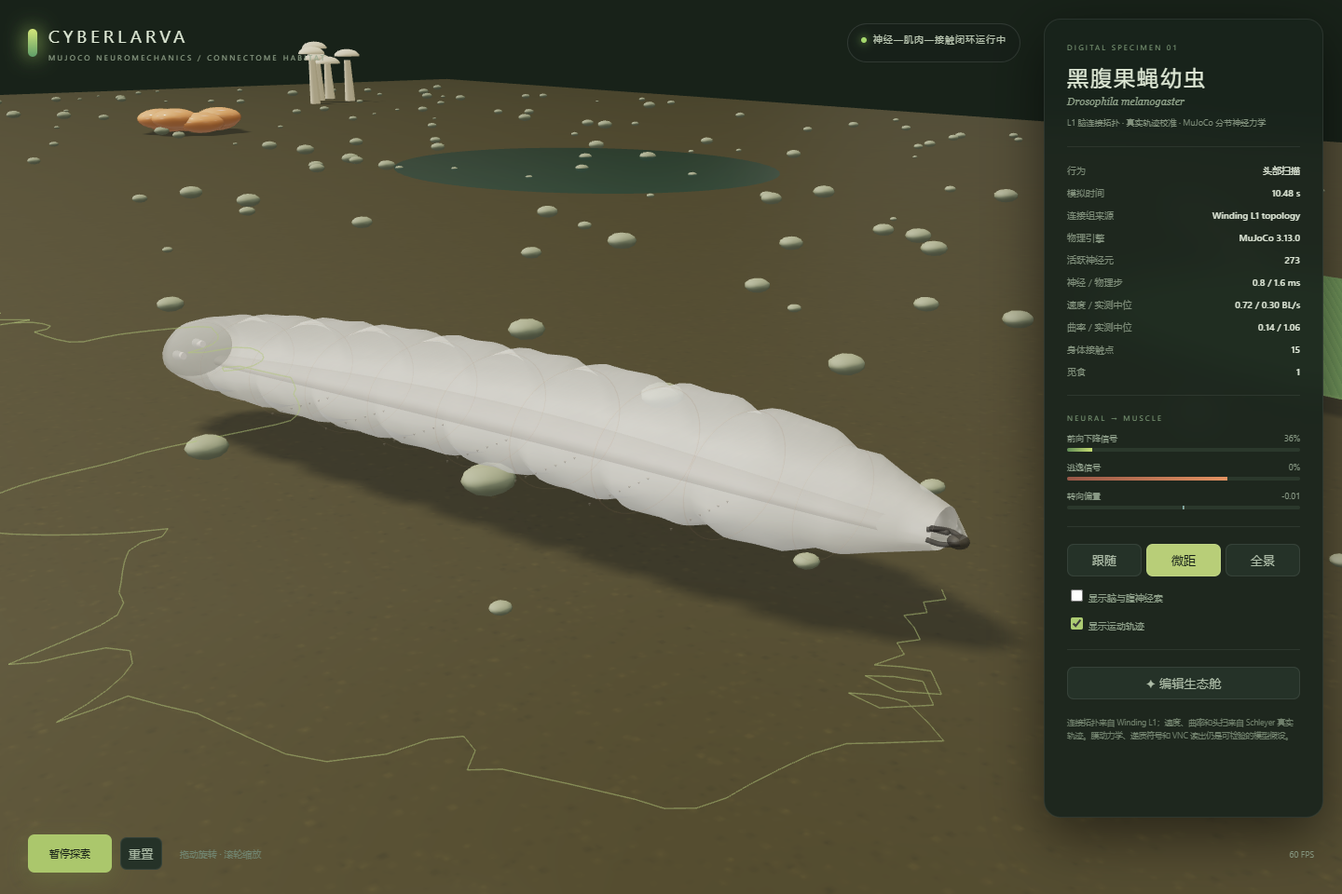
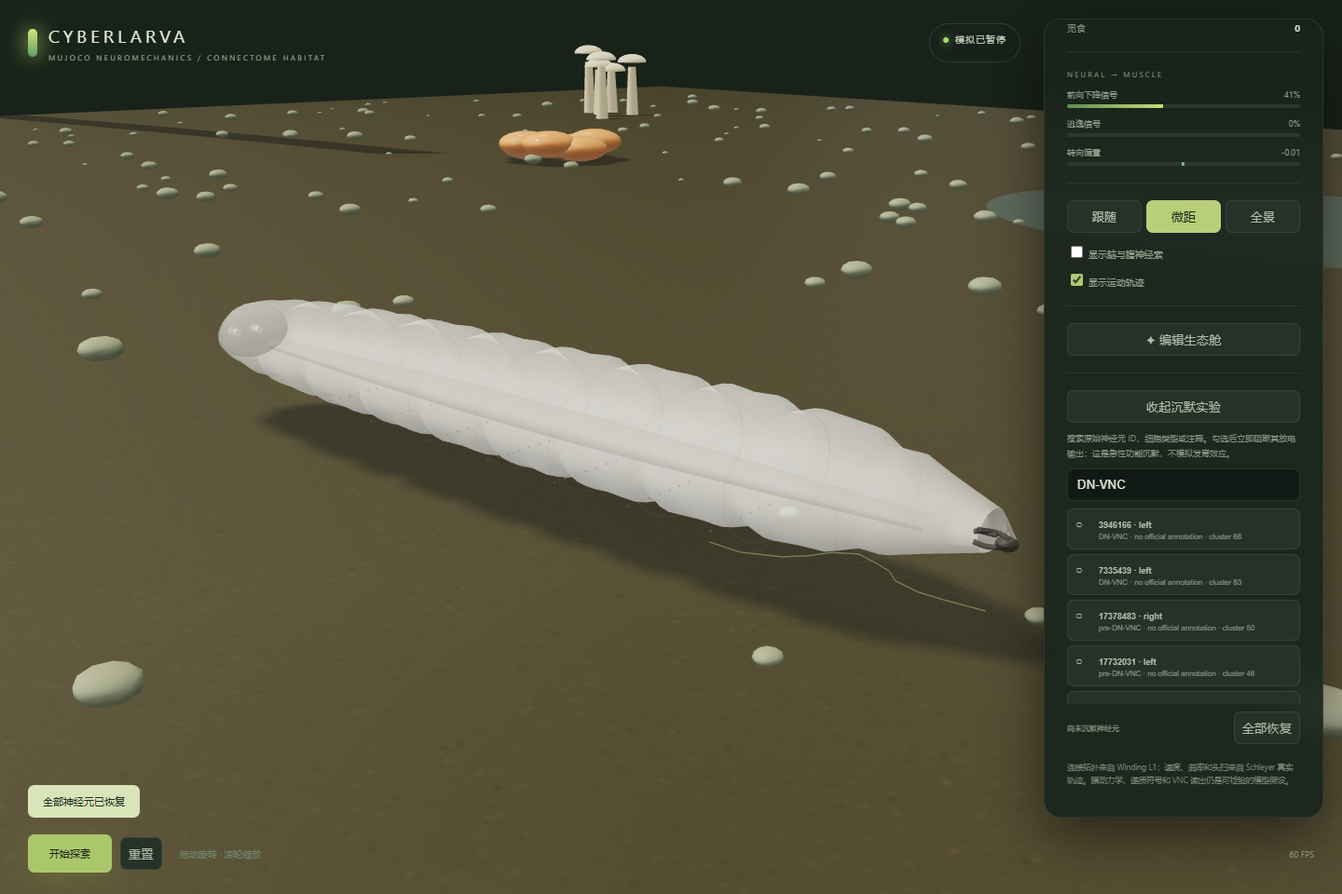
Add virtual neuron silencing experiments

diff --git a/web/main.js b/web/main.js
@@ -44,7 +44,7 @@ const nerveNodes=[];for(let i=0;i<11;i++)nerveNodes.push(mesh(sphereGeo,mats.ner
 let latest,follow=true,editing=false,selected='food',pathLine;const pathMat=new T.LineBasicMaterial({color:'#a4c568',transparent:true,opacity:.5});
 async function cmd(d){let r=await fetch('/api/command',{method:'POST',headers:{'Content-Type':'application/json'},body:JSON.stringify(d)}),j=await r.json();if(!r.ok)throw Error(j.error);return j}function toast(t){$('toast').textContent=t;$('toast').style.opacity=1;clearTimeout(window.tt);window.tt=setTimeout(()=>$('toast').style.opacity=0,2800)}
 async function poll(){try{latest=await(await fetch('/api/state')).json();if(latest.revision!==lastRevision)buildWorld(await(await fetch('/api/world')).json());
- const names={'resting':'静止','forward crawling':'前向蠕动','backward escape':'后退逃逸','head casting':'头部扫描','feeding':'进食'},p=latest.physics||{},target=p.targets||{};$('behavior').textContent=names[latest.behavior]||latest.behavior;$('simtime').textContent=latest.time.toFixed(2)+' s';$('source').textContent=latest.stats.source||'正在初始化';$('engine').textContent=p.engine||'MuJoCo';$('active').textContent=(latest.stats.active??0).toLocaleString();$('stepms').textContent=latest.stats.step_ms?(latest.stats.step_ms.toFixed(1)+' / '+(latest.stats.physics_ms||0).toFixed(1)+' ms'):'—';$('speed').textContent=p.speed_bl_s!=null?p.speed_bl_s.toFixed(2)+' / '+target.speed_bl_s.toFixed(2)+' BL/s':'—';$('curvature').textContent=p.curvature_rad_bl!=null?p.curvature_rad_bl.toFixed(2)+' / '+target.curvature_rad_bl.toFixed(2):'—';$('contacts').textContent=p.contact_count??'—';$('food').textContent=latest.foods_found;$('status').textContent=latest.error?latest.error:(latest.paused?'模拟已暂停':'神经—肌肉—接触闭环运行中');$('play').textContent=latest.paused?'开始探索':'暂停探索';
+ const names={'resting':'静止','forward crawling':'前向蠕动','backward escape':'后退逃逸','head casting':'头部扫描','feeding':'进食'},p=latest.physics||{},target=p.targets||{};$('behavior').textContent=names[latest.behavior]||latest.behavior;$('simtime').textContent=latest.time.toFixed(2)+' s';$('source').textContent=latest.stats.source||'正在初始化';$('engine').textContent=p.engine||'MuJoCo';$('active').textContent=(latest.stats.active??0).toLocaleString();$('knockout').textContent=(latest.knockout?.count||0)+' 个';$('stepms').textContent=latest.stats.step_ms?(latest.stats.step_ms.toFixed(1)+' / '+(latest.stats.physics_ms||0).toFixed(1)+' ms'):'—';$('speed').textContent=p.speed_bl_s!=null?p.speed_bl_s.toFixed(2)+' / '+target.speed_bl_s.toFixed(2)+' BL/s':'—';$('curvature').textContent=p.curvature_rad_bl!=null?p.curvature_rad_bl.toFixed(2)+' / '+target.curvature_rad_bl.toFixed(2):'—';$('contacts').textContent=p.contact_count??'—';$('food').textContent=latest.foods_found;$('status').textContent=latest.error?latest.error:(latest.paused?'模拟已暂停':'神经—肌肉—接触闭环运行中');$('play').textContent=latest.paused?'开始探索':'暂停探索';
  for(let [k,id] of [['forward','forward'],['backward','back']]){let v=latest.stats[k]||0;$(id+'bar').style.width=v*100+'%';$(id+'v').textContent=Math.round(v*100)+'%'}let tv=latest.stats.turn||0;$('turnv').textContent=(tv>=0?'+':'')+tv.toFixed(2);$('turnbar').style.left=(tv<0?50+tv*50:50)+'%';$('turnbar').style.width=Math.abs(tv)*50+'%';$('turnbar').style.background=tv<0?'#7bb1b0':'#d0d87b';
  if(pathLine){scene.remove(pathLine);pathLine.geometry.dispose()}pathLine=new T.Line(new T.BufferGeometry().setFromPoints(latest.trail.map(p=>new T.Vector3(p[0],.025,p[1]))),pathMat);pathLine.visible=$('trail').checked;scene.add(pathLine);
  }catch(e){$('status').textContent='本地服务连接中断'}setTimeout(poll,100)}
@@ -52,6 +52,7 @@ buildWorld(await(await fetch('/api/world')).json());latest=await(await fetch('/a
 function view(v){let target=v==='overview'?segMeshes[0].position.clone():segMeshes[v==='macro'?3:4].position.clone(),off=v==='macro'?new T.Vector3(1.6,.7,1.35):v==='overview'?new T.Vector3(12,18,12):new T.Vector3(2.25,1.25,2.05);controls.target.copy(target);camera.position.copy(target).add(off);follow=v!=='overview';for(let k of ['follow','macro','overview'])$(k).classList.toggle('selected',k===v)}for(let k of ['follow','macro','overview'])$(k).onclick=()=>view(k);
 $('play').onclick=()=>cmd({action:'pause',value:!latest.paused});$('reset').onclick=()=>cmd({action:'reset'});$('neural').onchange=()=>neuralGroup.visible=$('neural').checked;$('trail').onchange=()=>{if(pathLine)pathLine.visible=$('trail').checked};
 const tools=[['food','食物'],['leaf','叶片'],['rock','岩石'],['fungus','菌簇'],['puddle','水洼'],['wall','障碍'],['floor','清墙'],['spawn','出生点']];for(let [k,n] of tools){let b=document.createElement('button');b.textContent=n;b.classList.toggle('selected',k===selected);b.onclick=()=>{selected=k;[...$('palette').children].forEach(x=>x.classList.toggle('selected',x===b))};$('palette').appendChild(b)}$('editor').onclick=async()=>{editing=!editing;$('editpanel').hidden=!editing;$('editor').textContent=editing?'完成编辑':'✦ 编辑生态舱';if(editing){await cmd({action:'pause',value:true});view('overview');toast('单击放置，右键擦除')}};for(let a of ['save','load','garden'])$(a).onclick=()=>cmd({action:a}).then(()=>toast({save:'地图已保存',load:'地图已载入',garden:'自然生态舱已复原'}[a])).catch(e=>toast(e.message));
+let lesionOpen=false,neuronTimer;async function loadNeurons(){let q=encodeURIComponent($('neuronsearch').value.trim()),data=await(await fetch('/api/neurons?q='+q+'&limit=80')).json(),box=$('neuronresults');box.replaceChildren();for(let n of data.neurons){let b=document.createElement('button'),mark=document.createElement('span'),copy=document.createElement('span'),title=document.createElement('b'),meta=document.createElement('small');b.className='neuron'+(n.disabled?' selected':'');mark.textContent=n.disabled?'✓':'○';title.textContent=(n.id||n.index)+(n.side?' · '+n.side:'');meta.textContent=[n.celltype,n.annotations,n.cluster&&('cluster '+n.cluster)].filter(Boolean).join(' · ')||('connectome index '+n.index);copy.append(title,meta);b.append(mark,copy);b.onclick=async()=>{await cmd({action:'knockout',mode:n.disabled?'remove':'add',indices:[n.index]});await loadNeurons();toast(n.disabled?'神经元已恢复':'神经元已沉默')};box.appendChild(b)}$('kosummary').textContent=data.knockout.count?('已沉默 '+data.knockout.count+' 个神经元'):'尚未沉默神经元'}$('lesion').onclick=()=>{lesionOpen=!lesionOpen;$('lesionpanel').hidden=!lesionOpen;$('lesion').textContent=lesionOpen?'收起沉默实验':'◇ 神经元沉默实验';if(lesionOpen)loadNeurons()};$('neuronsearch').oninput=()=>{clearTimeout(neuronTimer);neuronTimer=setTimeout(loadNeurons,180)};$('clearKO').onclick=async()=>{await cmd({action:'clear_knockout'});await loadNeurons();toast('全部神经元已恢复')};
 const cursor=mesh(new T.RingGeometry(.35,.48,24),new T.MeshBasicMaterial({color:'#c7df79',side:T.DoubleSide}),scene);cursor.rotation.x=-Math.PI/2;cursor.visible=false;const ray=new T.Raycaster(),mouse=new T.Vector2(),ground=new T.Plane(new T.Vector3(0,1,0),0),hit=new T.Vector3();let cell,down;renderer.domElement.onpointermove=e=>{if(!editing)return;mouse.set(e.clientX/innerWidth*2-1,-e.clientY/innerHeight*2+1);ray.setFromCamera(mouse,camera);if(ray.ray.intersectPlane(ground,hit)){cell={x:Math.floor(hit.x),y:Math.floor(hit.z)};cursor.position.set(cell.x+.5,.025,cell.y+.5);cursor.visible=true}};renderer.domElement.onpointerdown=e=>down=[e.clientX,e.clientY];renderer.domElement.onpointerup=e=>{if(editing&&cell&&down&&Math.hypot(e.clientX-down[0],e.clientY-down[1])<5)cmd({action:'paint',...cell,tool:e.button===2?'erase':selected});down=null};renderer.domElement.oncontextmenu=e=>e.preventDefault();
 let last=performance.now(),frames=0,fpsTime=last,oldHead=new T.Vector3(),up=new T.Vector3(0,1,0),xAxis=new T.Vector3(1,0,0),zAxis=new T.Vector3(0,0,1);
 function animate(now){requestAnimationFrame(animate);let dt=Math.min(.05,(now-last)/1000);last=now;

diff --git a/web/style.css b/web/style.css
@@ -1,1 +1,1 @@
-*{box-sizing:border-box}html,body{width:100%;height:100%}body{margin:0;overflow:hidden;background:#111812;color:#dfe9d6;font:13px 'Segoe UI','Microsoft YaHei',sans-serif}#viewport{position:absolute;inset:0}canvas{display:block}header{position:absolute;top:25px;left:30px;right:345px;display:flex;justify-content:space-between;pointer-events:none}.brand{display:flex;align-items:center;gap:12px;letter-spacing:4px;font-size:19px}.brand>i{width:10px;height:30px;border-radius:9px;background:linear-gradient(#d3e67a,#5f9e68);box-shadow:0 0 22px #b4df6c}.brand small{display:block;font-size:8px;letter-spacing:2.4px;color:#96a88f;margin-top:5px}.live{background:#162019d9;border:1px solid #ffffff1c;padding:9px 14px;border-radius:30px;color:#b7c4af;font-size:10px;letter-spacing:1px}.live b{display:inline-block;width:6px;height:6px;border-radius:50%;background:#a4d86c;box-shadow:0 0 10px #a4d86c;margin-right:7px}aside{position:absolute;right:20px;top:20px;bottom:82px;width:300px;padding:24px;background:#18231ce8;border:1px solid #ffffff14;border-radius:18px;box-shadow:0 20px 60px #0008;backdrop-filter:blur(18px);overflow:auto}.eyebrow{font-size:8px;letter-spacing:2.2px;color:#7f9c79}h1{font-weight:450;font-size:23px;letter-spacing:2px;margin:11px 0 5px}.latin{font:italic 11px Georgia;color:#90a38a}.caption{font-size:9px;line-height:1.7;color:#82917d}.rule{height:1px;background:#ffffff12;margin:18px 0}.row{display:flex;justify-content:space-between;margin:10px 0;font-size:10px}.row span{color:#7f8e7a}.row strong{font-weight:500;color:#dce5d5;max-width:150px;text-align:right}.meterlabel{display:flex;justify-content:space-between;font-size:9px;color:#899985;margin:10px 0 5px}.meter,.bipolar{height:4px;border-radius:4px;background:#2b382c;overflow:hidden;position:relative}.meter i{display:block;width:0;height:100%;background:linear-gradient(90deg,#608b55,#c6dd72);transition:.15s}.meter.danger i{background:linear-gradient(90deg,#985747,#e49362)}.bipolar:after{content:'';position:absolute;left:50%;top:0;width:1px;height:100%;background:#879182}.bipolar i{position:absolute;left:50%;height:100%;width:0;background:#d0d87b}.buttons{display:flex;gap:5px;margin:10px 0}.buttons button{flex:1}button{background:#253228;color:#aebda8;border:1px solid #ffffff14;border-radius:7px;padding:8px;cursor:pointer;font:10px inherit}button:hover{background:#314137}button.selected{color:#162019;background:#b8ce78}.wide{width:100%}label{display:block;margin:11px 0;color:#8fa08a;font-size:10px}input{accent-color:#accb72}.note{font-size:8.5px;color:#70806c;line-height:1.65;margin-top:18px}footer{position:absolute;bottom:23px;left:30px;right:30px;display:flex;gap:9px;align-items:center}.primary{background:#abc76c;color:#172016;border:0;padding:13px 23px;font-size:11px;box-shadow:0 7px 24px #82a64b38}.primary:hover{background:#c2dc7f}footer span{margin-left:10px;color:#70836e;font-size:10px}footer em{margin-left:auto;font-style:normal;color:#83947d;font-size:9px}#palette{display:grid;grid-template-columns:repeat(2,1fr);gap:5px}#toast{position:absolute;bottom:82px;left:30px;padding:10px 16px;background:#d9e5b9;color:#1d2c20;border-radius:7px;opacity:0;transition:.2s;pointer-events:none;font-size:11px}@media(max-width:850px){aside{width:240px}header{right:275px}.live{display:none}}
+*{box-sizing:border-box}html,body{width:100%;height:100%}body{margin:0;overflow:hidden;background:#111812;color:#dfe9d6;font:13px 'Segoe UI','Microsoft YaHei',sans-serif}#viewport{position:absolute;inset:0}canvas{display:block}header{position:absolute;top:25px;left:30px;right:345px;display:flex;justify-content:space-between;pointer-events:none}.brand{display:flex;align-items:center;gap:12px;letter-spacing:4px;font-size:19px}.brand>i{width:10px;height:30px;border-radius:9px;background:linear-gradient(#d3e67a,#5f9e68);box-shadow:0 0 22px #b4df6c}.brand small{display:block;font-size:8px;letter-spacing:2.4px;color:#96a88f;margin-top:5px}.live{background:#162019d9;border:1px solid #ffffff1c;padding:9px 14px;border-radius:30px;color:#b7c4af;font-size:10px;letter-spacing:1px}.live b{display:inline-block;width:6px;height:6px;border-radius:50%;background:#a4d86c;box-shadow:0 0 10px #a4d86c;margin-right:7px}aside{position:absolute;right:20px;top:20px;bottom:82px;width:300px;padding:24px;background:#18231ce8;border:1px solid #ffffff14;border-radius:18px;box-shadow:0 20px 60px #0008;backdrop-filter:blur(18px);overflow:auto}.eyebrow{font-size:8px;letter-spacing:2.2px;color:#7f9c79}h1{font-weight:450;font-size:23px;letter-spacing:2px;margin:11px 0 5px}.latin{font:italic 11px Georgia;color:#90a38a}.caption{font-size:9px;line-height:1.7;color:#82917d}.rule{height:1px;background:#ffffff12;margin:18px 0}.row{display:flex;justify-content:space-between;margin:10px 0;font-size:10px}.row span{color:#7f8e7a}.row strong{font-weight:500;color:#dce5d5;max-width:150px;text-align:right}.meterlabel{display:flex;justify-content:space-between;font-size:9px;color:#899985;margin:10px 0 5px}.meter,.bipolar{height:4px;border-radius:4px;background:#2b382c;overflow:hidden;position:relative}.meter i{display:block;width:0;height:100%;background:linear-gradient(90deg,#608b55,#c6dd72);transition:.15s}.meter.danger i{background:linear-gradient(90deg,#985747,#e49362)}.bipolar:after{content:'';position:absolute;left:50%;top:0;width:1px;height:100%;background:#879182}.bipolar i{position:absolute;left:50%;height:100%;width:0;background:#d0d87b}.buttons{display:flex;gap:5px;margin:10px 0}.buttons button{flex:1}button{background:#253228;color:#aebda8;border:1px solid #ffffff14;border-radius:7px;padding:8px;cursor:pointer;font:10px inherit}button:hover{background:#314137}button.selected{color:#162019;background:#b8ce78}.wide{width:100%}label{display:block;margin:11px 0;color:#8fa08a;font-size:10px}input{accent-color:#accb72}.note{font-size:8.5px;color:#70806c;line-height:1.65;margin-top:18px}footer{position:absolute;bottom:23px;left:30px;right:30px;display:flex;gap:9px;align-items:center}.primary{background:#abc76c;color:#172016;border:0;padding:13px 23px;font-size:11px;box-shadow:0 7px 24px #82a64b38}.primary:hover{background:#c2dc7f}footer span{margin-left:10px;color:#70836e;font-size:10px}footer em{margin-left:auto;font-style:normal;color:#83947d;font-size:9px}#palette{display:grid;grid-template-columns:repeat(2,1fr);gap:5px}#neuronsearch{width:100%;padding:9px 10px;border-radius:7px;border:1px solid #ffffff18;background:#101914;color:#dfe9d6;font:10px inherit;outline:none}#neuronsearch:focus{border-color:#a9c76b88}#neuronresults{max-height:210px;overflow:auto;margin:8px 0;display:grid;gap:5px}.neuron{width:100%;padding:8px;text-align:left;display:grid;grid-template-columns:18px 1fr;gap:7px}.neuron.selected{background:#9dbb68;color:#172016}.neuron b{font-size:9px;font-weight:600;overflow:hidden;text-overflow:ellipsis}.neuron small{display:block;font-size:8px;opacity:.72;margin-top:2px;white-space:nowrap;overflow:hidden;text-overflow:ellipsis}.lesionfoot{display:flex;align-items:center;gap:8px;margin-top:8px}.lesionfoot span{flex:1;font-size:8px;color:#8fa08a}.lesionfoot button{white-space:nowrap}#toast{position:absolute;bottom:82px;left:30px;padding:10px 16px;background:#d9e5b9;color:#1d2c20;border-radius:7px;opacity:0;transition:.2s;pointer-events:none;font-size:11px}@media(max-width:850px){aside{width:240px}header{right:275px}.live{display:none}}

diff --git a/web/index.html b/web/index.html
@@ -2,9 +2,10 @@
 <link rel="stylesheet" href="/web/style.css"><script type="importmap">{"imports":{"three":"/node_modules/three/build/three.module.js","three/addons/":"/node_modules/three/examples/jsm/"}}</script></head>
 <body><div id="viewport"></div><header><div class="brand"><i></i><div>CYBERLARVA<small>MUJOCO NEUROMECHANICS / CONNECTOME HABITAT</small></div></div><div class="live"><b></b><span id="status">闭环就绪</span></div></header>
 <aside><div class="eyebrow">DIGITAL SPECIMEN 01</div><h1>黑腹果蝇幼虫</h1><div class="latin">Drosophila melanogaster</div><p class="caption">L1 脑连接拓扑 · 真实轨迹校准 · MuJoCo 分节神经力学</p>
-<div class="rule"></div><div class="row"><span>行为</span><strong id="behavior">静止</strong></div><div class="row"><span>模拟时间</span><strong id="simtime">0.00 s</strong></div><div class="row"><span>连接组来源</span><strong id="source">载入中</strong></div><div class="row"><span>物理引擎</span><strong id="engine">MuJoCo</strong></div><div class="row"><span>活跃神经元</span><strong id="active">—</strong></div><div class="row"><span>神经 / 物理步</span><strong id="stepms">—</strong></div><div class="row"><span>速度 / 实测中位</span><strong id="speed">—</strong></div><div class="row"><span>曲率 / 实测中位</span><strong id="curvature">—</strong></div><div class="row"><span>身体接触点</span><strong id="contacts">—</strong></div><div class="row"><span>觅食</span><strong id="food">0</strong></div>
+<div class="rule"></div><div class="row"><span>行为</span><strong id="behavior">静止</strong></div><div class="row"><span>模拟时间</span><strong id="simtime">0.00 s</strong></div><div class="row"><span>连接组来源</span><strong id="source">载入中</strong></div><div class="row"><span>物理引擎</span><strong id="engine">MuJoCo</strong></div><div class="row"><span>活跃神经元</span><strong id="active">—</strong></div><div class="row"><span>功能沉默</span><strong id="knockout">0 个</strong></div><div class="row"><span>神经 / 物理步</span><strong id="stepms">—</strong></div><div class="row"><span>速度 / 实测中位</span><strong id="speed">—</strong></div><div class="row"><span>曲率 / 实测中位</span><strong id="curvature">—</strong></div><div class="row"><span>身体接触点</span><strong id="contacts">—</strong></div><div class="row"><span>觅食</span><strong id="food">0</strong></div>
 <div class="rule"></div><div class="eyebrow">NEURAL → MUSCLE</div><div class="meterlabel">前向下降信号 <span id="forwardv">0%</span></div><div class="meter"><i id="forwardbar"></i></div><div class="meterlabel">逃逸信号 <span id="backv">0%</span></div><div class="meter danger"><i id="backbar"></i></div><div class="meterlabel">转向偏置 <span id="turnv">0</span></div><div class="bipolar"><i id="turnbar"></i></div>
 <div class="rule"></div><div class="buttons"><button id="follow" class="selected">跟随</button><button id="macro">微距</button><button id="overview">全景</button></div><label><input id="neural" type="checkbox"> 显示脑与腹神经索</label><label><input id="trail" type="checkbox" checked> 显示运动轨迹</label>
 <div class="rule"></div><button class="wide" id="editor">✦ 编辑生态舱</button><div id="editpanel" hidden><p class="caption">单击放置，右键擦除</p><div id="palette"></div><div class="buttons"><button id="save">保存</button><button id="load">载入</button><button id="garden">复原</button></div></div>
+<div class="rule"></div><button class="wide" id="lesion">◇ 神经元沉默实验</button><div id="lesionpanel" hidden><p class="caption">搜索原始神经元 ID、细胞类型或注释。勾选后立即阻断其放电输出；这是急性功能沉默，不模拟发育效应。</p><input id="neuronsearch" type="search" placeholder="例如 DN-VNC、olfactory 或神经元 ID"><div id="neuronresults"></div><div class="lesionfoot"><span id="kosummary">尚未沉默神经元</span><button id="clearKO">全部恢复</button></div></div>
 <p class="note">连接拓扑来自 Winding L1；速度、曲率和头扫来自 Schleyer 真实轨迹。膜动力学、递质符号和 VNC 读出仍是可检验的模型假设。</p></aside>
 <footer><button id="play" class="primary">开始探索</button><button id="reset">重置</button><span>拖动旋转 · 滚轮缩放</span><em id="fps">— FPS</em></footer><div id="toast"></div><script type="module" src="/web/main.js"></script></body></html>

diff --git a/cyberlarva/connectome.py b/cyberlarva/connectome.py
@@ -32,6 +32,7 @@ class NeuralState:
     backward: float
     turn: float
     head_sweep: float
+    knockout_count: int
 
 
 class ConnectomeBrain:
@@ -41,6 +42,7 @@ class ConnectomeBrain:
         self.n = 512
         self.W = None
         self.groups: dict[str, np.ndarray] = {}
+        self.neurons: list[dict] = []
         pack = data_dir / "winding_l1_connectome.npz"
         meta = data_dir / "groups.json"
         if pack.exists() and meta.exists() and sparse is not None:
@@ -60,6 +62,20 @@ class ConnectomeBrain:
             order = np.arange(self.n)
             self.groups = {m: order[i * 18:(i + 1) * 18] for i, m in enumerate(MODALITIES)}
             self.groups["dn_vnc"] = order[-96:]
+        identity = data_dir / "neurons.json"
+        if identity.exists():
+            self.neurons = json.loads(identity.read_text(encoding="utf-8"))
+        if len(self.neurons) != self.n:
+            membership: dict[int, list[str]] = {}
+            for name, indices in self.groups.items():
+                for index in indices:
+                    membership.setdefault(int(index), []).append(name)
+            self.neurons = [
+                {"index": i, "id": str(i), "side": "", "celltype": "",
+                 "annotations": ", ".join(membership.get(i, [])), "cluster": ""}
+                for i in range(self.n)
+            ]
+        self.disabled = np.zeros(self.n, dtype=bool)
         self.v = self.rng.normal(0, .02, self.n).astype(np.float32)
         self.rate = np.zeros(self.n, dtype=np.float32)
         self.refrac = np.zeros(self.n, dtype=np.int8)
@@ -78,6 +94,36 @@ class ConnectomeBrain:
     def reset(self):
         self.v.fill(0); self.rate.fill(0); self.refrac.fill(0); self.last_spikes.fill(0); self.t = 0
 
+    def set_knockout(self, indices, mode: str = "set") -> dict:
+        clean = sorted({int(i) for i in indices if 0 <= int(i) < self.n})
+        if mode == "set": self.disabled.fill(False); self.disabled[clean] = True
+        elif mode == "add": self.disabled[clean] = True
+        elif mode == "remove": self.disabled[clean] = False
+        else: raise ValueError("敲除模式必须是 set、add 或 remove")
+        self.v[self.disabled] = 0; self.rate[self.disabled] = 0
+        self.refrac[self.disabled] = 0; self.last_spikes[self.disabled] = 0
+        return self.knockout_state()
+
+    def knockout_state(self) -> dict:
+        indices = np.flatnonzero(self.disabled).tolist()
+        return {"count": len(indices), "indices": indices,
+                "neurons": [self.neurons[i] for i in indices[:80]],
+                "kind": "acute functional silencing"}
+
+    def neuron_catalog(self, query: str = "", limit: int = 60) -> list[dict]:
+        query = query.strip().lower(); limit = max(1, min(int(limit), 200))
+        selected = np.flatnonzero(self.disabled)
+        selected_set = set(int(i) for i in selected)
+        result = []
+        for neuron in self.neurons:
+            haystack = " ".join(str(neuron.get(k, "")) for k in
+                                ("index", "id", "side", "celltype", "annotations", "cluster")).lower()
+            if query and query not in haystack: continue
+            item = dict(neuron); item["disabled"] = int(item["index"]) in selected_set
+            result.append(item)
+            if len(result) >= limit: break
+        return result
+
     def _indices(self, name: str) -> np.ndarray:
         aliases = {"warm": "thermo_warm", "cold": "thermo_cold", "touch": "mechano"}
         return self.groups.get(name, self.groups.get(aliases.get(name, ""), np.empty(0, dtype=np.int32)))
@@ -87,19 +133,23 @@ class ConnectomeBrain:
         substeps = 4
         spikes = self.last_spikes
         for _ in range(substeps):
+            spikes[self.disabled] = 0
             syn = self.W @ (spikes * self.sign) if self.W is not None else 0
             drive = self.bias + np.asarray(syn, dtype=np.float32).reshape(-1) * .22
             for name in MODALITIES:
                 idx = self._indices(name)
                 if len(idx): drive[idx] += float(senses.get(name, 0)) * .65
-            live = self.refrac <= 0
+            drive[self.disabled] = 0
+            live = (self.refrac <= 0) & ~self.disabled
             self.v[live] = self.v[live] * .86 + drive[live]
             self.v += self.rng.normal(0, .012, self.n).astype(np.float32)
             spikes = (self.v > .5).astype(np.float32)
+            spikes[self.disabled] = 0; self.v[self.disabled] = 0
             self.v[spikes > 0] = 0
             self.refrac = np.maximum(self.refrac - 1, 0)
             self.refrac[spikes > 0] = 2
             self.rate = self.rate * .91 + spikes * 9.
+            self.rate[self.disabled] = 0
         self.last_spikes = spikes
         self.t += dt
         def activity(idx): return float(np.mean(self.rate[idx])) if len(idx) else 0.
@@ -114,4 +164,5 @@ class ConnectomeBrain:
         sweep = np.clip(.22 + (1 - odor) * .55 + abs(turn) * .25, 0, 1)
         return NeuralState(int(np.count_nonzero(self.rate > .5)), float(self.rate.mean()),
                            activity(self.dn), (time.perf_counter()-started)*1000, self.source,
-                           float(forward), float(backward), float(turn), float(sweep))
+                           float(forward), float(backward), float(turn), float(sweep),
+                           int(np.count_nonzero(self.disabled)))

diff --git a/server.py b/server.py
@@ -14,7 +14,7 @@ class Simulation:
         self.physics=MuJoCoLarva(self.world,ROOT/'config'/'trajectory_calibration.json')
         pose=self.physics.pose();self.world.segments=pose['segments'];self.world.x,self.world.y,self.world.heading=pose['x'],pose['y'],pose['heading']
         self.physics_stats=pose;self.lock=threading.RLock(); self.paused=True; self.revision=0; self.stats={}; self.error=''
-        self.map_path=ROOT/'maps'/'custom_map.json'; threading.Thread(target=self.run,daemon=True).start()
+        self.interventions=[];self.map_path=ROOT/'maps'/'custom_map.json'; threading.Thread(target=self.run,daemon=True).start()
     def rebuild_physics(self):
         self.physics=MuJoCoLarva(self.world,ROOT/'config'/'trajectory_calibration.json');self.physics_stats=self.physics.pose();self.world.segments=self.physics_stats['segments']
     def run(self):
@@ -30,7 +30,8 @@ class Simulation:
         with self.lock:
             w=self.world
             return {'time':w.time,'paused':self.paused,'error':self.error,'behavior':w.behavior,'segments':w.segments,'heading':w.heading,
-                    'foods_found':w.foods_found,'distance':w.distance,'trail':w.trail,'stats':self.stats,'physics':self.physics_stats,'revision':self.revision,'items':[i.__dict__ for i in w.items]}
+                    'foods_found':w.foods_found,'distance':w.distance,'trail':w.trail,'stats':self.stats,'physics':self.physics_stats,'revision':self.revision,'items':[i.__dict__ for i in w.items],
+                    'knockout':self.brain.knockout_state(),'interventions':self.interventions[-20:]}
     def world_data(self):
         with self.lock:return {'grid':[''.join(r) for r in self.world.grid],'items':[i.__dict__ for i in self.world.items],'revision':self.revision}
     def command(self,d):
@@ -44,8 +45,14 @@ class Simulation:
             elif a=='load':self.world.load(self.map_path);self.brain.reset();self.rebuild_physics();self.revision+=1
             elif a=='garden':self.world.garden();self.brain.reset();self.rebuild_physics();self.paused=True;self.revision+=1
             elif a=='reset':self.world.garden();self.brain.reset();self.rebuild_physics();self.paused=True;self.revision+=1
+            elif a=='knockout':
+                state=self.brain.set_knockout(d.get('indices',[]),d.get('mode','set'))
+                self.interventions.append({'time':self.world.time,'action':'knockout','mode':d.get('mode','set'),'indices':d.get('indices',[]),'count':state['count']})
+            elif a=='clear_knockout':
+                state=self.brain.set_knockout([], 'set')
+                self.interventions.append({'time':self.world.time,'action':'clear_knockout','count':0})
             else:raise ValueError('未知操作')
-        return {'ok':True}
+        return {'ok':True,'knockout':self.brain.knockout_state()}
 
 def main():
     ap=argparse.ArgumentParser();ap.add_argument('--port',type=int,default=8775);ap.add_argument('--no-browser',action='store_true');args=ap.parse_args();sim=Simulation()
@@ -58,6 +65,10 @@ def main():
             p=self.path.split('?')[0]
             if p=='/api/state':return self.js(sim.state())
             if p=='/api/world':return self.js(sim.world_data())
+            if p=='/api/neurons':
+                from urllib.parse import parse_qs,urlsplit
+                query=parse_qs(urlsplit(self.path).query);q=query.get('q',[''])[0];limit=query.get('limit',['60'])[0]
+                with sim.lock:return self.js({'neurons':sim.brain.neuron_catalog(q,limit),'total':sim.brain.n,'knockout':sim.brain.knockout_state()})
             if p=='/':self.path='/web/index.html'
             elif not p.startswith(('/web/','/node_modules/three/')) or '..' in p:return self.send_error(404)
             return super().do_GET()

diff --git a/tools/prepare_connectome.py b/tools/prepare_connectome.py
@@ -25,8 +25,16 @@ def main():
         groups[name]=sorted(set(found))
     rows=ann[ann.celltype.str.fullmatch('DN-VNC',case=False)]
     groups['dn_vnc']=sorted(set(lookup[x] for c in ('left_id','right_id') for x in rows[c] if x in lookup))
+    neurons=[{'index':i,'id':str(neuron_id),'side':'','celltype':'','annotations':'','cluster':''} for i,neuron_id in enumerate(ids)]
+    for _,row in ann.iterrows():
+        for column,side in (('left_id','left'),('right_id','right')):
+            neuron_id=row[column]
+            if neuron_id in lookup:
+                neurons[lookup[neuron_id]].update(side=side,celltype=row.get('celltype',''),
+                    annotations=row.get('additional_annotations',''),cluster=row.get('level_7_cluster',''))
     args.out.mkdir(parents=True,exist_ok=True); sparse.save_npz(args.out/'winding_l1_connectome.npz',weights,compressed=True)
     (args.out/'groups.json').write_text(json.dumps(groups,indent=2),encoding='utf-8')
+    (args.out/'neurons.json').write_text(json.dumps(neurons,indent=2),encoding='utf-8')
     print(f'Saved {weights.shape[0]} neurons, {weights.nnz:,} nonzero connections; groups:',{k:len(v) for k,v in groups.items()})
 
 if __name__=='__main__': main()

diff --git a/tests/smoke_test.py b/tests/smoke_test.py
@@ -7,6 +7,7 @@ from cyberlarva.world import LarvaWorld
 from cyberlarva.physics import MuJoCoLarva
 
 world=LarvaWorld();brain=ConnectomeBrain(ROOT/'data'/'connectome');physics=MuJoCoLarva(world,ROOT/'config'/'trajectory_calibration.json')
+target=int(brain.forward_dn[0]);brain.set_knockout([target])
 start=(world.x,world.y)
 speeds=[];contacts=[]
 for _ in range(100):
@@ -18,4 +19,8 @@ assert len(world.segments)==11
 assert world.distance>0
 assert pose['engine'].startswith('MuJoCo') and max(contacts)>0
 assert 0<=neural.forward<=1 and -1<=neural.turn<=1
+assert neural.knockout_count==1 and brain.disabled[target]
+assert brain.v[target]==0 and brain.rate[target]==0 and brain.last_spikes[target]==0
+assert brain.neuron_catalog(str(brain.neurons[target]['id']),10)
+brain.set_knockout([], 'set');assert not brain.disabled.any()
 print({'neurons':brain.n,'connections':brain.W.nnz,'active':neural.active,'distance':round(world.distance,3),'speed_bl_s':round(sum(speeds)/len(speeds),3),'contacts':round(sum(contacts)/len(contacts),1),'engine':pose['engine'],'source':neural.source})

diff --git a/README.md b/README.md
@@ -68,6 +68,23 @@ Run `python tools/validate_calibration.py` after changing physics parameters. It
 5. Paired axial/hinge actuators deform the 11-segment MuJoCo body; ventral pads and mouth hooks exchange real forces with the substrate.
 6. MuJoCo contact, body stretch and pose return to the sensory encoder.
 
+## Virtual neuron silencing
+
+Open **神经元沉默实验** in the right panel to search all 2,952 connectome nodes by original skeleton ID, side, cell type, annotation, or cluster. Selecting a neuron clamps its membrane potential, spike output, and filtered firing rate to zero at every neural substep. Multiple neurons can be selected and restored independently; every intervention is timestamped in `/api/state`.
+
+This operation represents acute functional silencing, not developmental ablation. It is useful for controlled in-silico comparisons, but single-neuron phenotypes must not yet be treated as biological predictions: neurotransmitter signs, membrane parameters, DN functional partitions, and the VNC-to-muscle readout contain explicit model assumptions.
+
+`tools/prepare_connectome.py` generates the local searchable `neurons.json` identity table alongside the sparse topology. These generated data are ignored by Git and are not redistributed. Without that file the interface remains usable with connectome indices and functional group labels.
+
+Programmatic controls:
+
+```text
+GET  /api/neurons?q=DN-VNC&limit=60
+POST /api/command  {"action":"knockout","mode":"add","indices":[37]}
+POST /api/command  {"action":"knockout","mode":"remove","indices":[37]}
+POST /api/command  {"action":"clear_knockout"}
+```
+
 ## Scientific references
 
 - Winding, M. et al. (2023). *The connectome of an insect brain*. Science 379, eadd9330. https://doi.org/10.1126/science.add9330

diff --git a/data/connectome/README.md b/data/connectome/README.md
@@ -1,6 +1,6 @@
 # Connectome runtime data
 
-The files `winding_l1_connectome.npz` and `groups.json` are generated locally by
+The files `winding_l1_connectome.npz`, `groups.json`, and `neurons.json` are generated locally by
 `tools/prepare_connectome.py` from Supplementary Data S1 of Winding et al.
 (Science, 2023; DOI: 10.1126/science.add9330).
 
